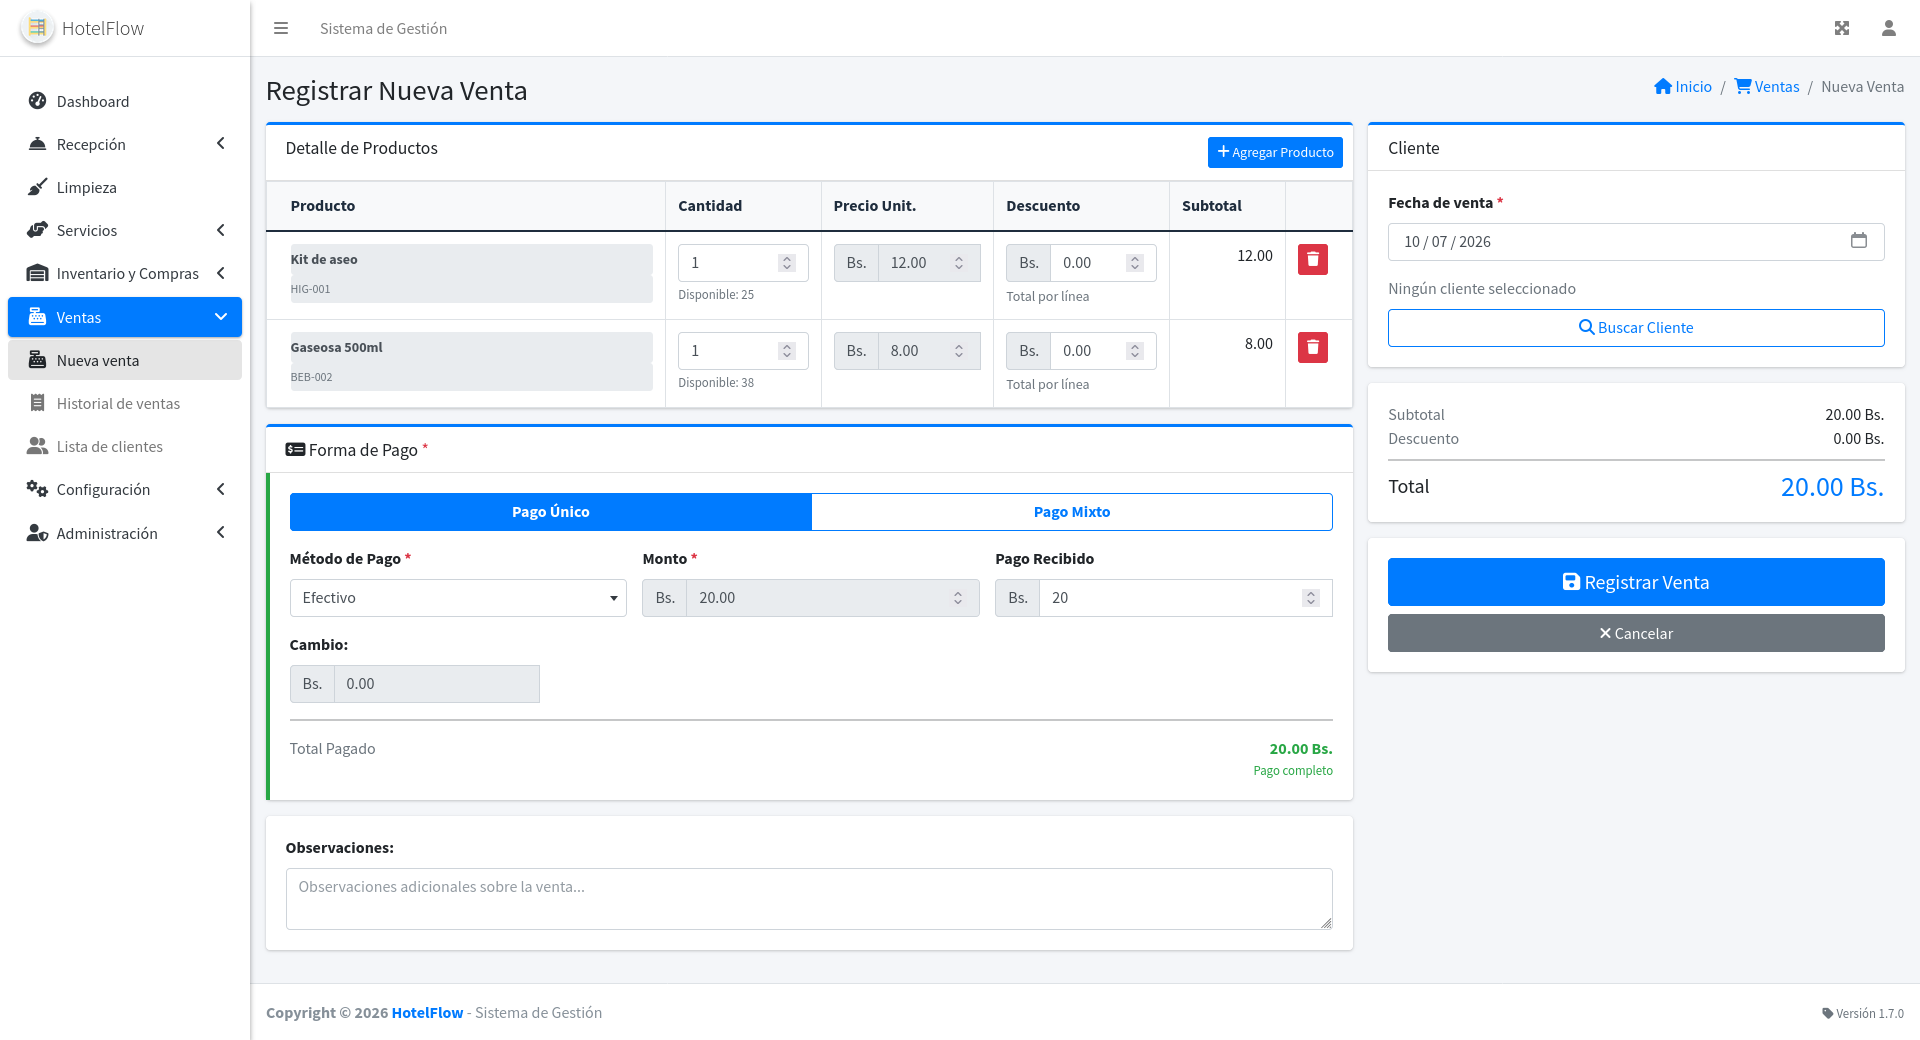
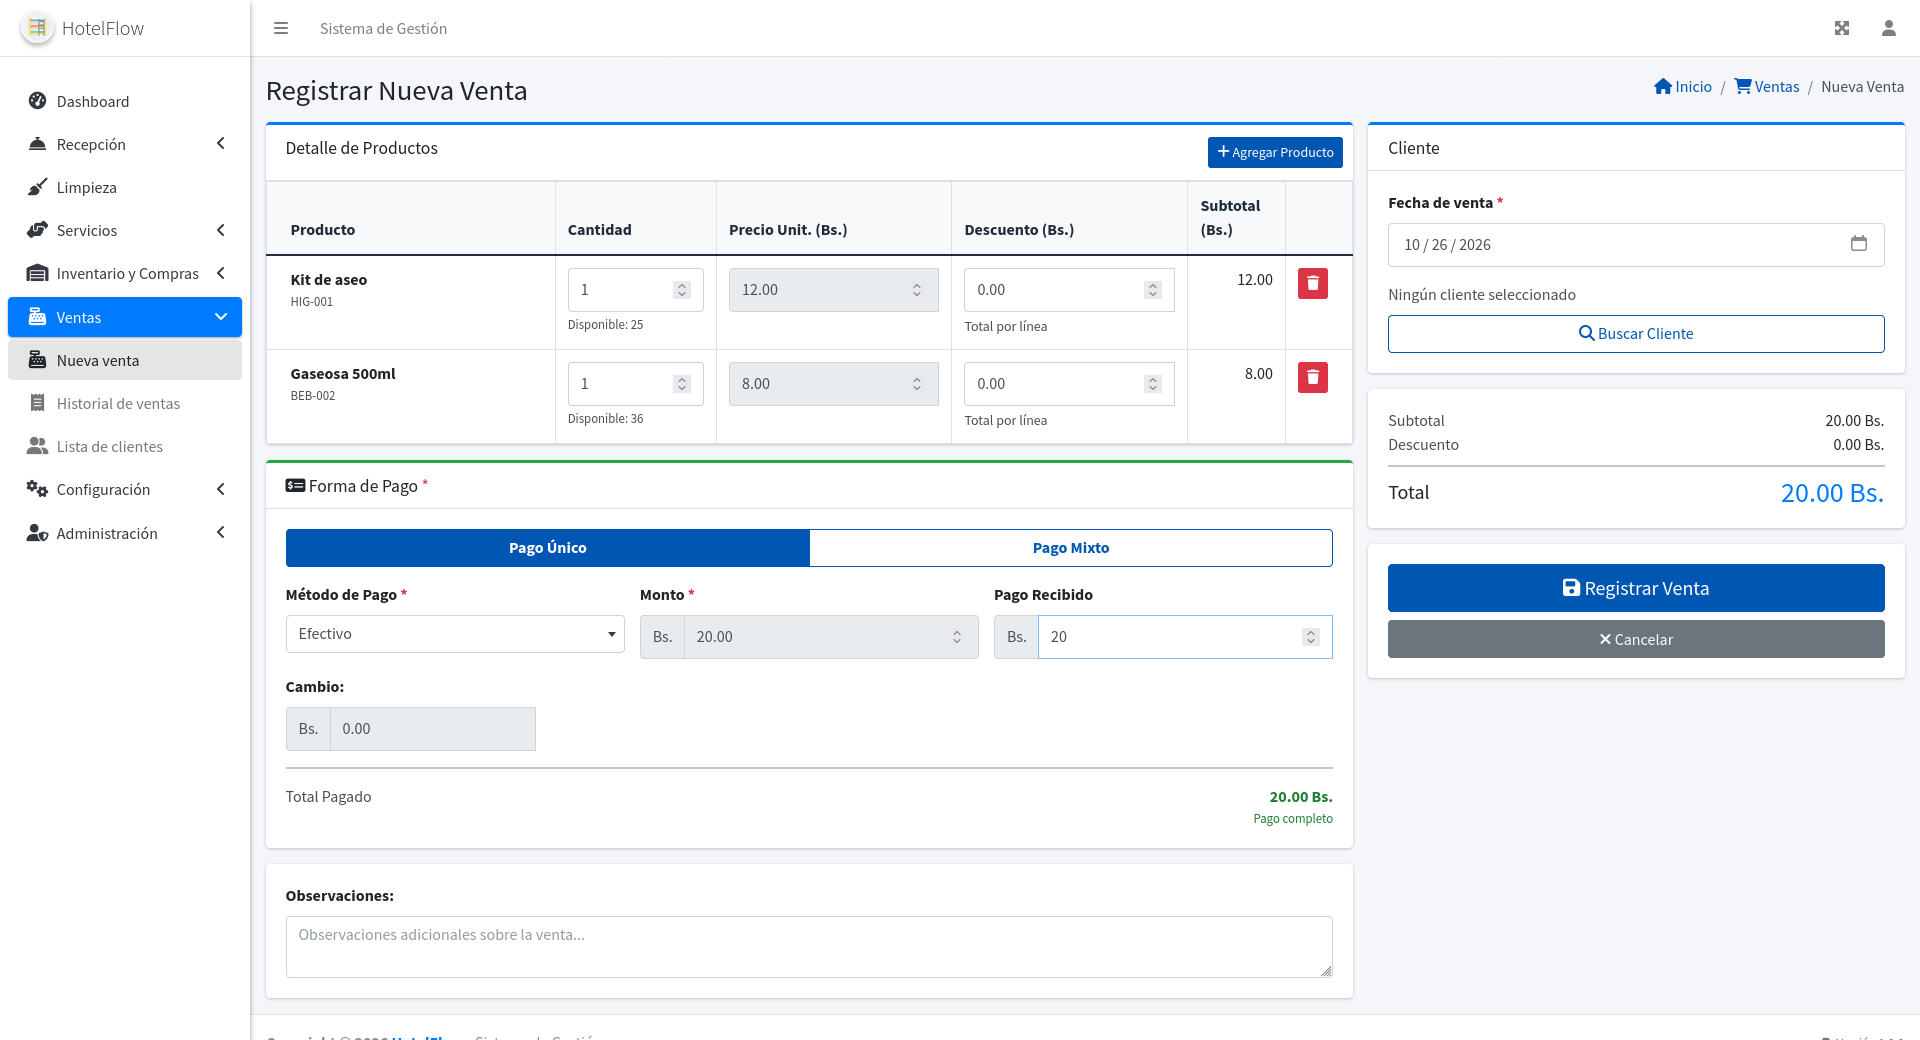
docs: documentar la versión 1.8.1

diff --git a/CLAUDE.md b/CLAUDE.md
@@ -241,6 +241,7 @@ Tras una pasada de endurecimiento de seguridad en todo el código, todo endpoint
 - **Tablas con DataTables Responsive: `responsivePriority` para que Acciones no quede colapsada.** Con `responsive: true` el orden de colapso por defecto esconde las últimas columnas (Acciones incluida) tras el `+` de cada fila, y a 390px el usuario necesita 2 toques para llegar a una acción. Cada `index-*.js` con acciones por fila debe pasar `dt: { columnDefs: [{ responsivePriority: 1, targets: <col Acciones> }, ...] }` a `initDataTable()` (ver `index-equipajes.js`, `index-productos.js`).
 - **Sobrescribir componentes de AdminLTE (timeline, etc.) exige igualar o superar su especificidad:** `.timeline > .time-label > span` y `.timeline > div > .fa` ganan a un selector corto como `.time-label>span`, y el resultado era texto blanco sobre fondo blanco (antes lo tapaba `bg-* !important`). Verificar el color computado en navegador (`getComputedStyle`), no solo leer el CSS.
 - **Eventos de Bootstrap 4 (`shown.bs.tab`, `show.bs.modal`…) se escuchan con jQuery, nunca con `addEventListener`:** BS4 los dispara con `$.trigger`, que un listener nativo no recibe (la persistencia de pestaña de `show-equipaje.js` estuvo muerta por eso). Patrón: `$('a[data-toggle="pill"]').on('shown.bs.tab', ...)`.
+- **Lo mismo vale para el `change` de Select2:** se dispara con `$.trigger`, así que un `select.addEventListener('change', ...)` solo reacciona a cambios nativos (p. ej. un test con `selectOption`), no a quien elige la opción en el desplegable. En `ventas/create.php` elegir QR en el método de pago no ocultaba "Pago recibido" por eso. Patrón: `$(select).on('change', ...)`, o delegado `$(contenedor).on('change', '.select-metodo-pago', ...)` para filas clonadas; al probar, elegir la opción con el desplegable real, no con `selectOption`.
 
 - **Lógica de formulario de productos compartida `public/js/modules/productos/producto-form.js`.** Select2, preview de imagen, validación en vivo de precios/stock y guardas de submit viven en `ProductoForm.init({form, tituloCarga, textoCarga})`; `create-producto.js` y `update-productos.js` son solo el llamado (no duplicar el bloque en cada vista). Los umbrales de margen llegan al JS por `data-margen-alerta`/`data-margen-bueno` del `<form>` (los expone la vista desde `ProductoController::umbralesMargen()`) — no hardcodear 10/20 en el JS, o el form y la pestaña Precios de `show.php` divergirían si cambia `PRODUCTOS_MARGEN_*`.
 
@@ -252,8 +253,10 @@ Tras una pasada de endurecimiento de seguridad en todo el código, todo endpoint
 
 - **Ventas = POS con `pagoventa` como ledger y `venta.metodopago`/`pagorecibido`/`cambio` como cache derivado:** la tabla `pagoventa` (append-only, CHECK `metodopago IN ('Efectivo','QR','Otros','Mixto')`) es la fuente de verdad del cobro; las columnas de resumen de `venta` solo la reflejan y se recalculan **en la misma transacción** que inserta las líneas (`Venta::crear()`, `Venta::anular()` — que también marca `estado=0` en sus `pagoventa`). Igual que con `recepcion`/`pagos`, ninguna escritura a `metodopago`/`pagorecibido`/`cambio` fuera de ese flujo. Vocabulario de métodos = **Efectivo / QR / Otros** (más el derivado `'Mixto'`); no inventar tarjeta/transferencia. `venta.idcliente` es nullable — ventas sin cliente se muestran como "Consumidor Final" en listado, detalle y recibo.
 
-- **Helpers únicos de ventas (patrón `estadoRecepcion`/`estadoHabitacion`):** `VentaController::calcularTotales()`, `calcularInfoMetodoPago()` (`['texto','clase','es_mixto']`), `obtenerIconoMetodoPago()`, `esPagoMixto()`, `calcularDesgloseDetalles()`, `calcularResumenPagos()`. Ninguna vista de `ventas` vuelve a escribir un `switch` de badge/total ni imprime `tipo_estancia`/`metodopago` crudo. El listado adjunta `info_metodo_pago` en batch vía `Venta::getMetodosPagoPorVentas()` (sin N+1 por fila), no consultando pagos por venta individual.
+- **Helpers únicos de ventas (patrón `estadoRecepcion`/`estadoHabitacion`):** `VentaController::estadoVenta()` (etiqueta/badge/icono de Activa/Anulada; el listado y el detalle leen `estado_ui`, no un ternario), `VentaController::calcularTotales()`, `calcularInfoMetodoPago()` (`['texto','clase','es_mixto']`), `obtenerIconoMetodoPago()`, `esPagoMixto()`, `calcularDesgloseDetalles()`, `calcularResumenPagos()`. Ninguna vista de `ventas` vuelve a escribir un `switch` de badge/total ni imprime `tipo_estancia`/`metodopago` crudo. El listado adjunta `info_metodo_pago` en batch vía `Venta::getMetodosPagoPorVentas()` (sin N+1 por fila), no consultando pagos por venta individual.
 
+- **Nueva venta (`views/ventas/create.php`): partials + módulos JS con una sola responsabilidad.** La vista solo incluye `partials/venta-*.php`, `modales-venta.php` y `plantilla-metodo-pago.php` (un `<template>` fuera del `<form>`); `show.php` hace lo mismo con `info-general`/`metodos-pago`/`productos-vendidos`/`informacion-adicional`. El JS va en `$module_scripts` en este orden: `venta-util` (`VentaUtil`: centavos, validez, `debounce`), `venta-selectores`, `venta-pagos`, `venta-detalle` y `create-venta` (orquestador). Importes en centavos enteros, eventos delegados, `hidden` en vez de `style.display` y `<template>` en vez de HTML en strings. El catálogo llega por `data-productos`/`data-clientes` desde `VentaController::datosParaCrear()`, que solo entrega los campos que el formulario usa (nunca precio de compra ni contacto del cliente). El servidor sigue recalculando precios, total y stock.
+- **Color de la tarjeta «Forma de Pago» (`#card-forma-pago`):** `pintarEstadoPago()` de `venta-pagos.js` alterna `card-primary` (sin total), `card-success` y `card-danger` usando `esValido()`, la misma regla que bloquea el envío, tanto en pago único como en mixto. No colorear las tarjetas internas de cada método: en mixto daban estados contradictorios.
 - **`idusuario` en ventas siempre de `$_SESSION['usuario_id']`:** el endpoint de creación (y `anular_venta.php`) no aceptan `idusuario` del cliente. El recibo `views/ventas/recibo.php` (página standalone imprimible TCPDF 80mm, permitida por la excepción de `<style>`) verifica `requireLogin()` + permiso `ventas` **+ propiedad** (admin OR `$venta['idusuario'] === $_SESSION['usuario_id']`) antes de generar el PDF y muestra el estado de la venta (incl. anulada con aviso).
 
 - **Datos de texto se guardan crudos y se escapan al mostrarlos (nunca al guardar):** los `sanitizarDatos()` de los modelos solo hacen `trim()`; guardar `htmlspecialchars()` en BD provocaba escape acumulativo en cada edición (`A &amp;amp; B`) y rompía contraseñas con `& < > " '`. Toda salida HTML escapa: `htmlspecialchars($v ?? '')` en PHP (incluido el navbar y los HTML de TCPDF en los recibos) y `escapeHtml()` de `common-utils.js` en JS cuando un dato de BD/`data-*` entra en `title`/`html` de SweetAlert o en `.html()`/`.append()`. Los toasts usan `titleText` (texto plano). Filas guardadas con el esquema anterior contienen entidades (`&amp;`, `&#039;`…): des-escapar con `html_entity_decode` una sola vez al desplegar en una BD con datos viejos.

diff --git a/README.md b/README.md
@@ -4,7 +4,7 @@
 
 **Sistema integral para la administración de establecimientos hoteleros**
 
-[![Versión](https://img.shields.io/badge/Versión-1.8.0-blue?style=flat-square)](CHANGELOG.md)
+[![Versión](https://img.shields.io/badge/Versión-1.8.1-blue?style=flat-square)](CHANGELOG.md)
 [![PHP](https://img.shields.io/badge/PHP-8.2+-777BB4?style=flat-square&logo=php&logoColor=white)](https://php.net)
 [![MariaDB](https://img.shields.io/badge/MariaDB-10.4+-003545?style=flat-square&logo=mariadb&logoColor=white)](https://mariadb.org)
 [![Bootstrap](https://img.shields.io/badge/Bootstrap-4-7952B3?style=flat-square&logo=bootstrap&logoColor=white)](https://getbootstrap.com)
@@ -61,7 +61,7 @@ Panel único con tabs Hoy / Mapa de habitaciones / Historial y KPIs del día.
 
 ### Ventas / Punto de venta
 
-Registro de ventas en dos columnas con catálogo por modales, pago único o mixto, control de stock y recibo térmico PDF.
+Registro de ventas en dos columnas con catálogo por modales, pago único o mixto (la tarjeta de pago pasa a verde o rojo según el cobro esté completo), control de stock y recibo térmico PDF.
 
 ![Ventas](public/img/screenshots/ventas.png)
 
@@ -71,7 +71,7 @@ Registro de ventas en dos columnas con catálogo por modales, pago único o mixt
 | ---------------- | ------------------------------------------------------------------------------------------------------------------------------------------------------------------------------------------------------------------------- |
 | **Habitaciones** | Gestión por tipo, piso y estado. Sistema de tarifas y galería de imágenes                                                                                                                                                 |
 | **Recepción**    | Panel único con tabs Hoy / Mapa de habitaciones / Historial, KPIs del día, folio de huésped con cargos/pagos múltiples, check-in/out, cambio de habitación auditable, validación de solape, recibos y tarjeta de registro |
-| **Servicios**    | Baños con cobro en pagos o cargo al folio del huésped, control de ocupación y duración, limpieza y almacenamiento de equipaje con folio de pagos, alerta de permanencia y recibos PDF                                                                                                                      |
+| **Servicios**    | Baños con cobro en pagos o cargo al folio del huésped, control de ocupación y duración, limpieza y almacenamiento de equipaje con folio de pagos, alerta de permanencia y recibos PDF                                     |
 | **Comercial**    | Punto de venta con pago único/mixto y recibo térmico, control de inventario, compras y reportes exportables (PDF/Excel)                                                                                                   |
 | **Dashboard**    | Métricas en tiempo real, estadísticas por rol y exportación de reportes                                                                                                                                                   |
 | **Usuarios**     | Sistema de roles (Admin, Recepcionista, Limpieza) con permisos granulares                                                                                                                                                 |

diff --git a/CHANGELOG.md b/CHANGELOG.md
@@ -5,6 +5,27 @@ Todos los cambios notables de este proyecto se documentan en este archivo.
 El formato está basado en [Keep a Changelog](https://keepachangelog.com/es-ES/1.1.0/),
 y este proyecto usa [Versionado Semántico](https://semver.org/lang/es/) (sin prefijo `v`, ej. `1.0.0`).
 
+## [1.8.1] - 2026-10-26
+
+Auditoría de frontend de `ventas` (13/20 → 20/20) y refactor de la pantalla de nueva venta. Sin cambios de esquema.
+
+### Added
+
+- La tarjeta «Forma de Pago» cambia de color según el cobro: verde si está completo (total cubierto y efectivo recibido suficiente), rojo si falta algo y azul sin total; vale igual para pago único y mixto.
+- `VentaController::estadoVenta()` (etiqueta, badge e icono del estado) y `datosParaCrear()` (productos con stock y clientes activos, solo con los campos que el formulario necesita).
+
+### Changed
+
+- `create.php` se divide en partials (`venta-carrito`, `venta-pago`, `venta-cliente`, `venta-resumen`, `modales-venta`, `plantilla-metodo-pago`) y `show.php` en cuatro (`info-general`, `metodos-pago`, `productos-vendidos`, `informacion-adicional`).
+- `create-venta.js` (870 líneas) pasa a un orquestador de 83 líneas sobre cuatro módulos: `venta-util`, `venta-selectores`, `venta-pagos` y `venta-detalle`. Importes en centavos enteros, búsqueda indexada con `debounce`, eventos delegados y bloqueo del doble envío.
+- Contraste, áreas táctiles de 44px y colores por tokens en el CSS del módulo; sin colores hexadecimales.
+- Globales: breadcrumb, `.btn-tool`, controles y paginación de DataTables y `.btn-primary` cumplen contraste AA y 44px.
+
+### Fixed
+
+- Con QR u Otros como método de pago único, «Pago recibido» seguía visible: Select2 dispara `change` por jQuery y el listener nativo no lo recibía.
+- El HTML de la pantalla de nueva venta exponía precios de compra y datos de contacto de clientes.
+
 ## [1.8.0] - 2026-10-20
 
 Refactor de `servicios-bano`: el cobro entra al libro de `pagos`, el servicio se registra y cancela de forma atómica, un huésped puede cargarlo a su folio y cada baño sabe si está en uso. Auditoría de frontend del módulo (16/20 → 18/20). Hay cambios de esquema (ver Migración).
@@ -695,6 +716,7 @@ Primera versión pública de HotelFlow.
 - Verificado que no existan credenciales, datos personales ni información de negocio real en el código versionado.
 - `.env` excluido de control de versiones; `.env.example` documentado con valores de ejemplo.
 
+[1.8.1]: https://github.com/WorkTeam01/HotelFlow/compare/1.8.0...1.8.1
 [1.8.0]: https://github.com/WorkTeam01/HotelFlow/compare/1.7.2...1.8.0
 [1.7.2]: https://github.com/WorkTeam01/HotelFlow/compare/1.7.1...1.7.2
 [1.7.1]: https://github.com/WorkTeam01/HotelFlow/compare/1.7.0...1.7.1

diff --git a/PROMPTS.md b/PROMPTS.md
@@ -62,7 +62,7 @@ _______________
 - Almacenamiento de equipaje: el estado (incl. el derivado `vencido` con `EQUIPAJE_DIAS_ALERTA`) sale de AlmacenamientoEquipajeController::estadoEquipaje / estadoDerivado / decorarEstados — ninguna vista escribe un switch de estado; el folio usa Pago::registrarLineaEquipaje / getByEquipaje (UI de solo lectura) y el monto siempre se recalcula en el servidor desde el precio real en BD
 - Equipaje (cont.): filtros, acciones de estado y editabilidad salen de AlmacenamientoEquipajeController::estadosFiltro / accionesEstado / esEditable, y el historial de armarTimeline() (la vista solo pinta); el cambio de estado es POST con csrf_token en el body (cambiar-estado-equipajes.js, contrato dual), nunca GET con token en la URL; eventos de Bootstrap 4 con jQuery, no addEventListener; las columnas Acciones de DataTables llevan responsivePriority; al sobrescribir componentes de AdminLTE verificar el color computado en navegador
 - Ventas = ledger `pagoventa` (append-only) como fuente de verdad del cobro con `venta.metodopago/pagorecibido/cambio` como cache derivado recalculado en la misma transaccion; vocabulario de metodos = Efectivo / QR / Otros (mas 'Mixto'); idusuario siempre de $_SESSION['usuario_id'], nunca del cliente; `venta.idcliente` es nullable — ventas sin cliente se muestran como "Consumidor Final"
-- Helpers unicos de ventas: VentaController::calcularTotales / calcularInfoMetodoPago / obtenerIconoMetodoPago / esPagoMixto / calcularDesgloseDetalles / calcularResumenPagos; el listado adjunta info_metodo_pago en batch (Venta::getMetodosPagoPorVentas), sin N+1
+- Helpers unicos de ventas: VentaController::estadoVenta / calcularTotales / calcularInfoMetodoPago / obtenerIconoMetodoPago / esPagoMixto / calcularDesgloseDetalles / calcularResumenPagos; el listado adjunta info_metodo_pago en batch (Venta::getMetodosPagoPorVentas), sin N+1
 - Recibo de venta: views/ventas/recibo.php (standalone imprimible TCPDF 80mm, excepcion de <style> embebido aceptada) muestra estado de la venta y exige permiso `ventas` + propiedad (admin OR dueño) ademas de requireLogin()
 - Assets de modulo con cache-busting automatico (?v=filemtime en header.php/footer.php para $module_styles/$module_scripts y para todos los assets de primer party del layout: styles.css, tokens.css y common-utils.js); no versionar a mano ni poner ?v= en la vista
 - Colores de UI desde una sola fuente: public/css/core/tokens.css (var(--color-*)) en CSS propio — sin hex en modulos — y themeColor()/themeColorEstado() de common-utils.js en JS (Swal.fire, charts, estados); ver reglas de tono y contraste en CLAUDE.md
